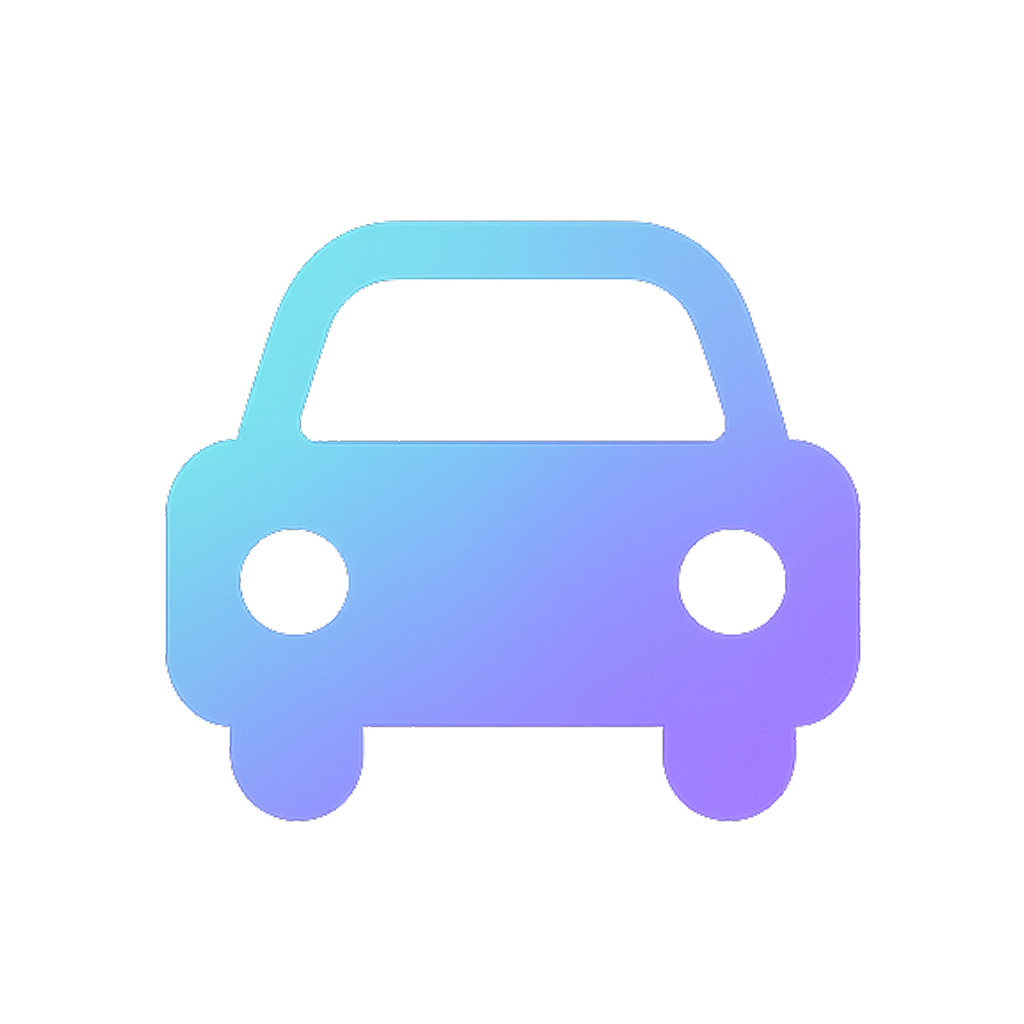
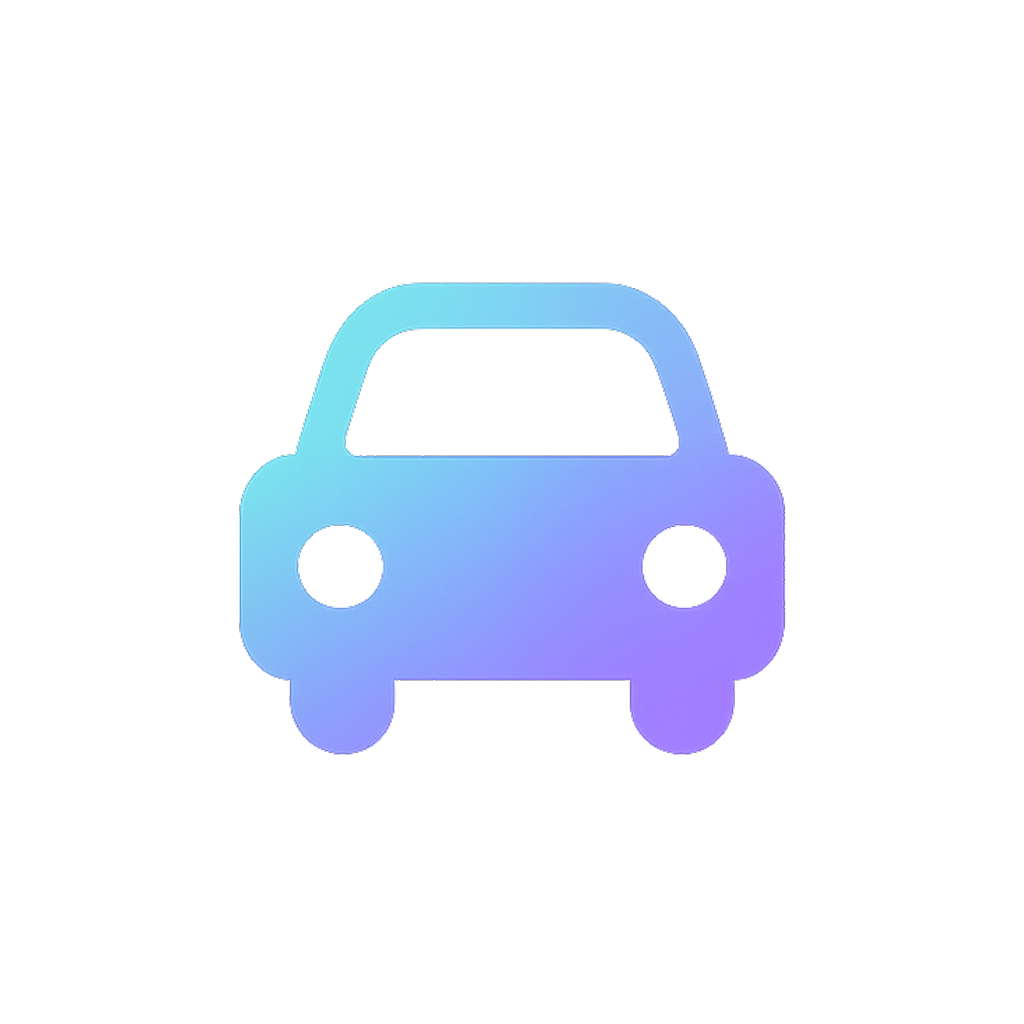
fix(fe) : 화면 깨짐 + 아이콘 수정

Changed region(s): [[0.1562, 0.1875, 0.8438, 0.8125]]

diff --git a/frontend/baro-app/src/features/violation/components/violation-list-item.tsx b/frontend/baro-app/src/features/violation/components/violation-list-item.tsx
@@ -1,4 +1,4 @@
-import { Text, View } from 'react-native';
+import { Pressable, Text, View } from 'react-native';
 
 import { Palette } from '@/styles';
 
@@ -7,23 +7,33 @@ import type { ViolationHistoryItem } from '../api/types';
 import { styles } from './violation-list-item.styles';
 import { ViolationStatusBadge } from './violation-status-badge';
 
-const TYPE_ICON_COLOR: Record<ViolationHistoryItem['type'], string> = {
-  BAD_PARKING: Palette.peach100,
-  DOUBLE_PARKING: Palette.mint100,
-  EV_OVERSTAY: Palette.mint100,
-  DISABLED_ZONE_VIOLATION: Palette.sky100,
-  OUT_OF_ZONE: Palette.peach100,
-  ETC: Palette.gray100,
+const TYPE_ICON_COLOR: Record<ViolationHistoryItem['type'], { outer: string; inner: string }> = {
+  BAD_PARKING: { outer: Palette.peach100, inner: Palette.orange400 },
+  DOUBLE_PARKING: { outer: Palette.mint100, inner: Palette.emerald500 },
+  EV_OVERSTAY: { outer: Palette.mint100, inner: Palette.emerald500 },
+  DISABLED_ZONE_VIOLATION: { outer: Palette.sky100, inner: Palette.blue500 },
+  OUT_OF_ZONE: { outer: Palette.peach100, inner: Palette.orange400 },
+  ETC: { outer: Palette.gray100, inner: Palette.gray500 },
 };
 
 type ViolationListItemProps = {
   item: ViolationHistoryItem;
+  onPress: () => void;
 };
 
-export function ViolationListItem({ item }: ViolationListItemProps) {
+export function ViolationListItem({ item, onPress }: ViolationListItemProps) {
+  const iconColor = TYPE_ICON_COLOR[item.type];
+
   return (
-    <View style={styles.row}>
-      <View style={[styles.icon, { backgroundColor: TYPE_ICON_COLOR[item.type] }]} />
+    <Pressable
+      accessibilityRole="button"
+      accessibilityLabel={`${item.title} 상세 보기`}
+      style={({ pressed }) => [styles.row, pressed && styles.rowPressed]}
+      onPress={onPress}
+    >
+      <View style={[styles.iconOuter, { backgroundColor: iconColor.outer }]}>
+        <View style={[styles.iconInner, { backgroundColor: iconColor.inner }]} />
+      </View>
 
       <View style={styles.content}>
         <Text style={styles.title}>{item.title}</Text>
@@ -32,6 +42,6 @@ export function ViolationListItem({ item }: ViolationListItemProps) {
       </View>
 
       <ViolationStatusBadge status={item.status} />
-    </View>
+    </Pressable>
   );
 }

diff --git a/frontend/baro-app/src/features/violation/screens/violation-history-screen.tsx b/frontend/baro-app/src/features/violation/screens/violation-history-screen.tsx
@@ -119,8 +119,22 @@ export default function ViolationHistoryScreen() {
                 <View key={group.monthLabel} style={styles.monthGroup}>
                   <Text style={styles.monthLabel}>{group.monthLabel}</Text>
                   <View style={styles.monthItems}>
-                    {group.items.map((item) => (
-                      <ViolationListItem key={item.requestId} item={item} />
+                    {group.items.map((item, index) => (
+                      <View key={item.requestId} style={styles.historyItem}>
+                        <ViolationListItem
+                          item={item}
+                          onPress={() =>
+                            router.push({
+                              pathname: '/resident/request-detail',
+                              params: {
+                                requestId: String(item.requestId),
+                                viewMode: 'recipient',
+                              },
+                            })
+                          }
+                        />
+                        {index < group.items.length - 1 ? <View style={styles.itemDivider} /> : null}
+                      </View>
                     ))}
                   </View>
                 </View>

diff --git a/frontend/baro-app/src/features/violation/components/violation-list-item.styles.ts b/frontend/baro-app/src/features/violation/components/violation-list-item.styles.ts
@@ -9,10 +9,20 @@ export const styles = StyleSheet.create({
     gap: Spacing.base,
     width: '100%',
   },
-  icon: {
+  rowPressed: {
+    opacity: 0.65,
+  },
+  iconOuter: {
     width: 40,
     height: 40,
     borderRadius: 14,
+    alignItems: 'center',
+    justifyContent: 'center',
+  },
+  iconInner: {
+    width: 16,
+    height: 16,
+    borderRadius: 5,
   },
   content: {
     flex: 1,

diff --git a/frontend/baro-app/src/features/violation/screens/violation-history-screen.styles.ts b/frontend/baro-app/src/features/violation/screens/violation-history-screen.styles.ts
@@ -27,6 +27,14 @@ export const styles = StyleSheet.create({
     color: '#9599a7',
   },
   monthItems: {
-    gap: Spacing.md,
+    gap: Spacing.base,
+  },
+  historyItem: {
+    gap: Spacing.base,
+  },
+  itemDivider: {
+    height: 1,
+    marginLeft: 40 + Spacing.base,
+    backgroundColor: Palette.gray100,
   },
 });
